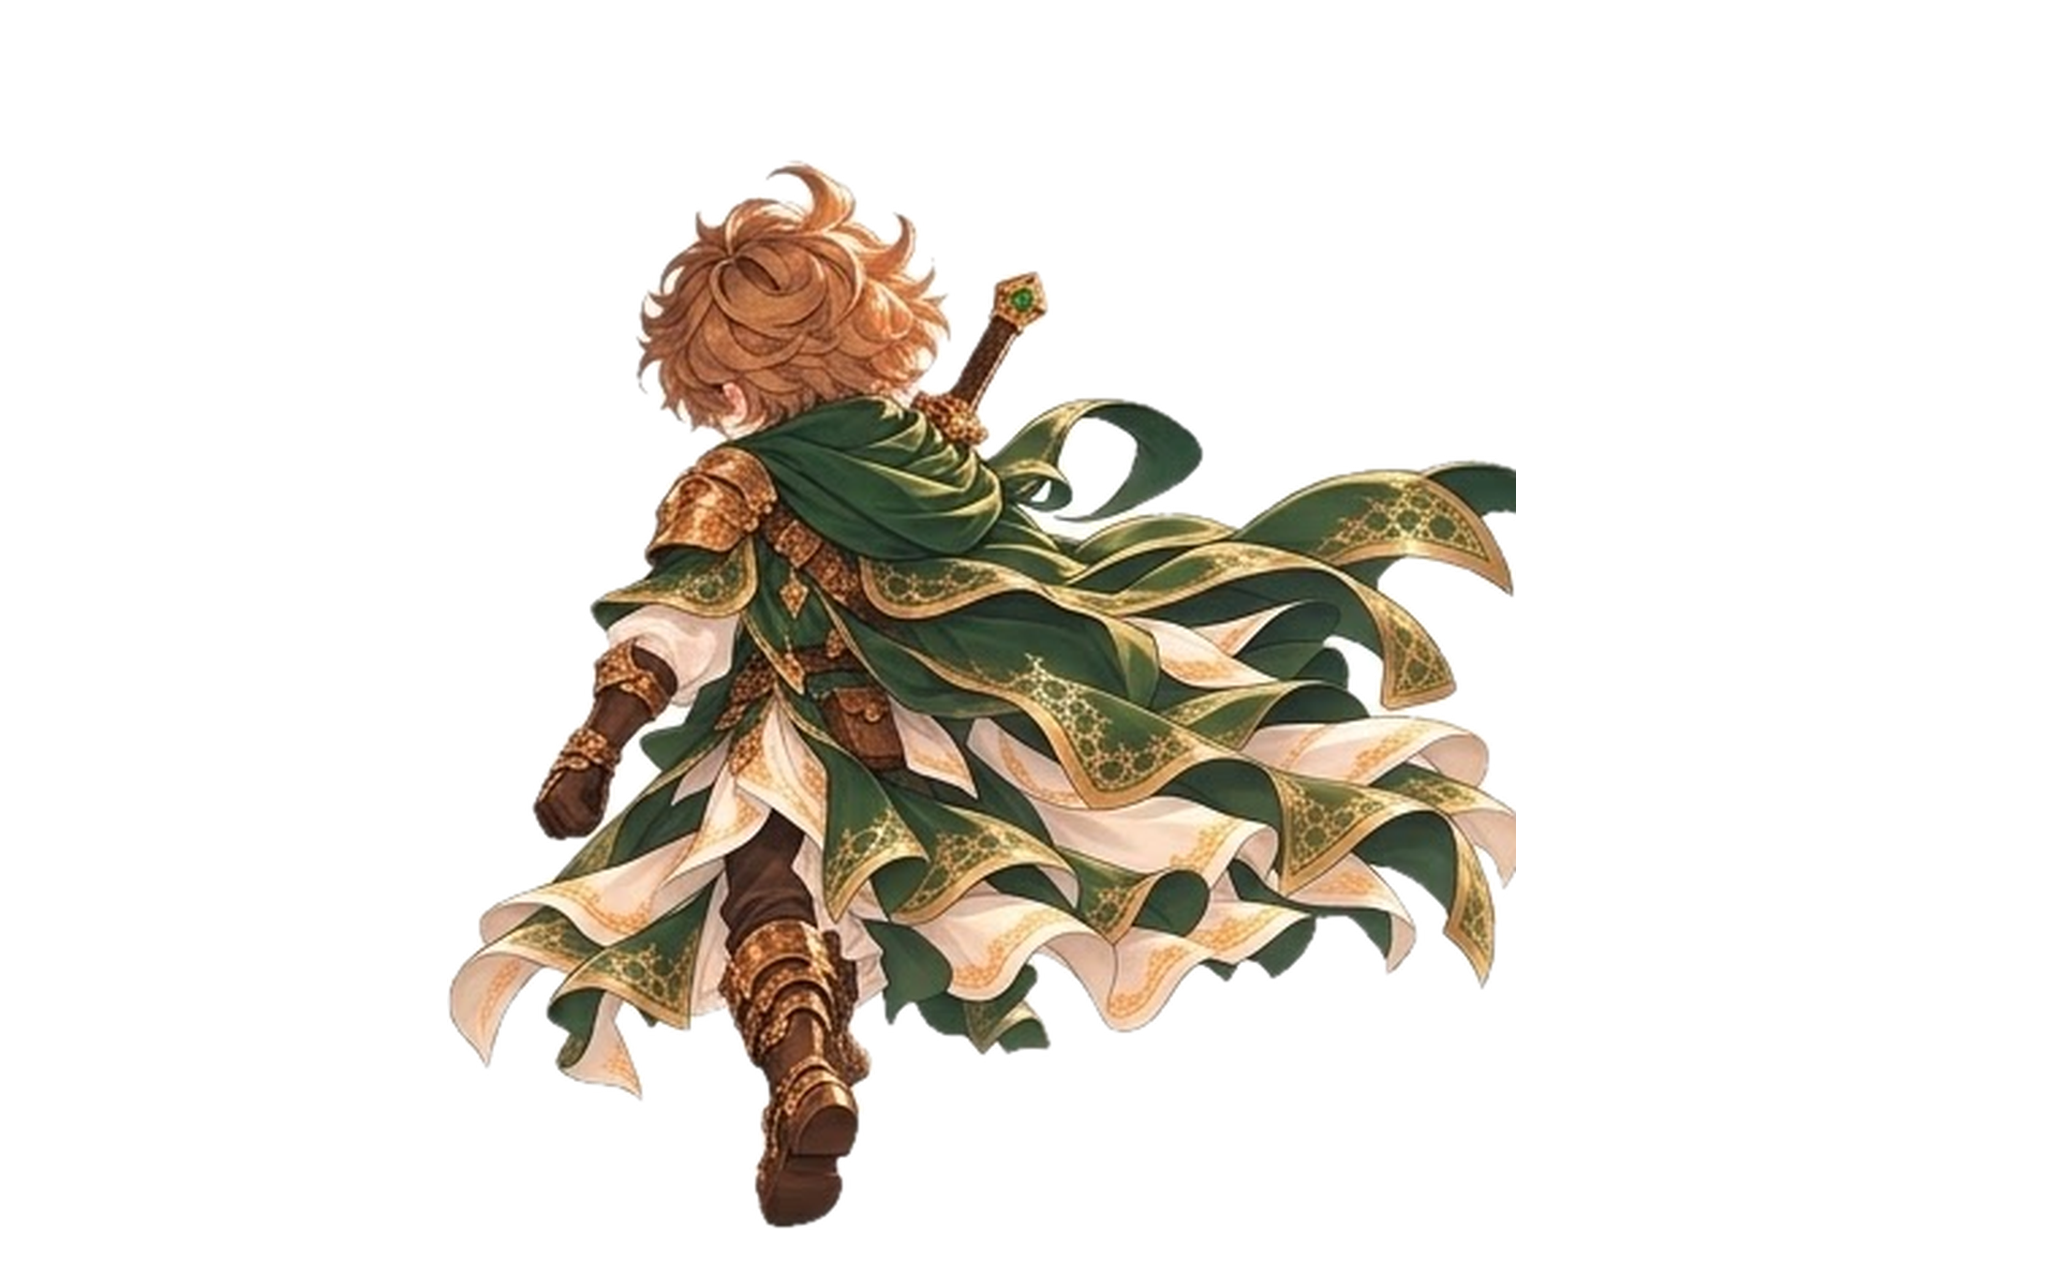
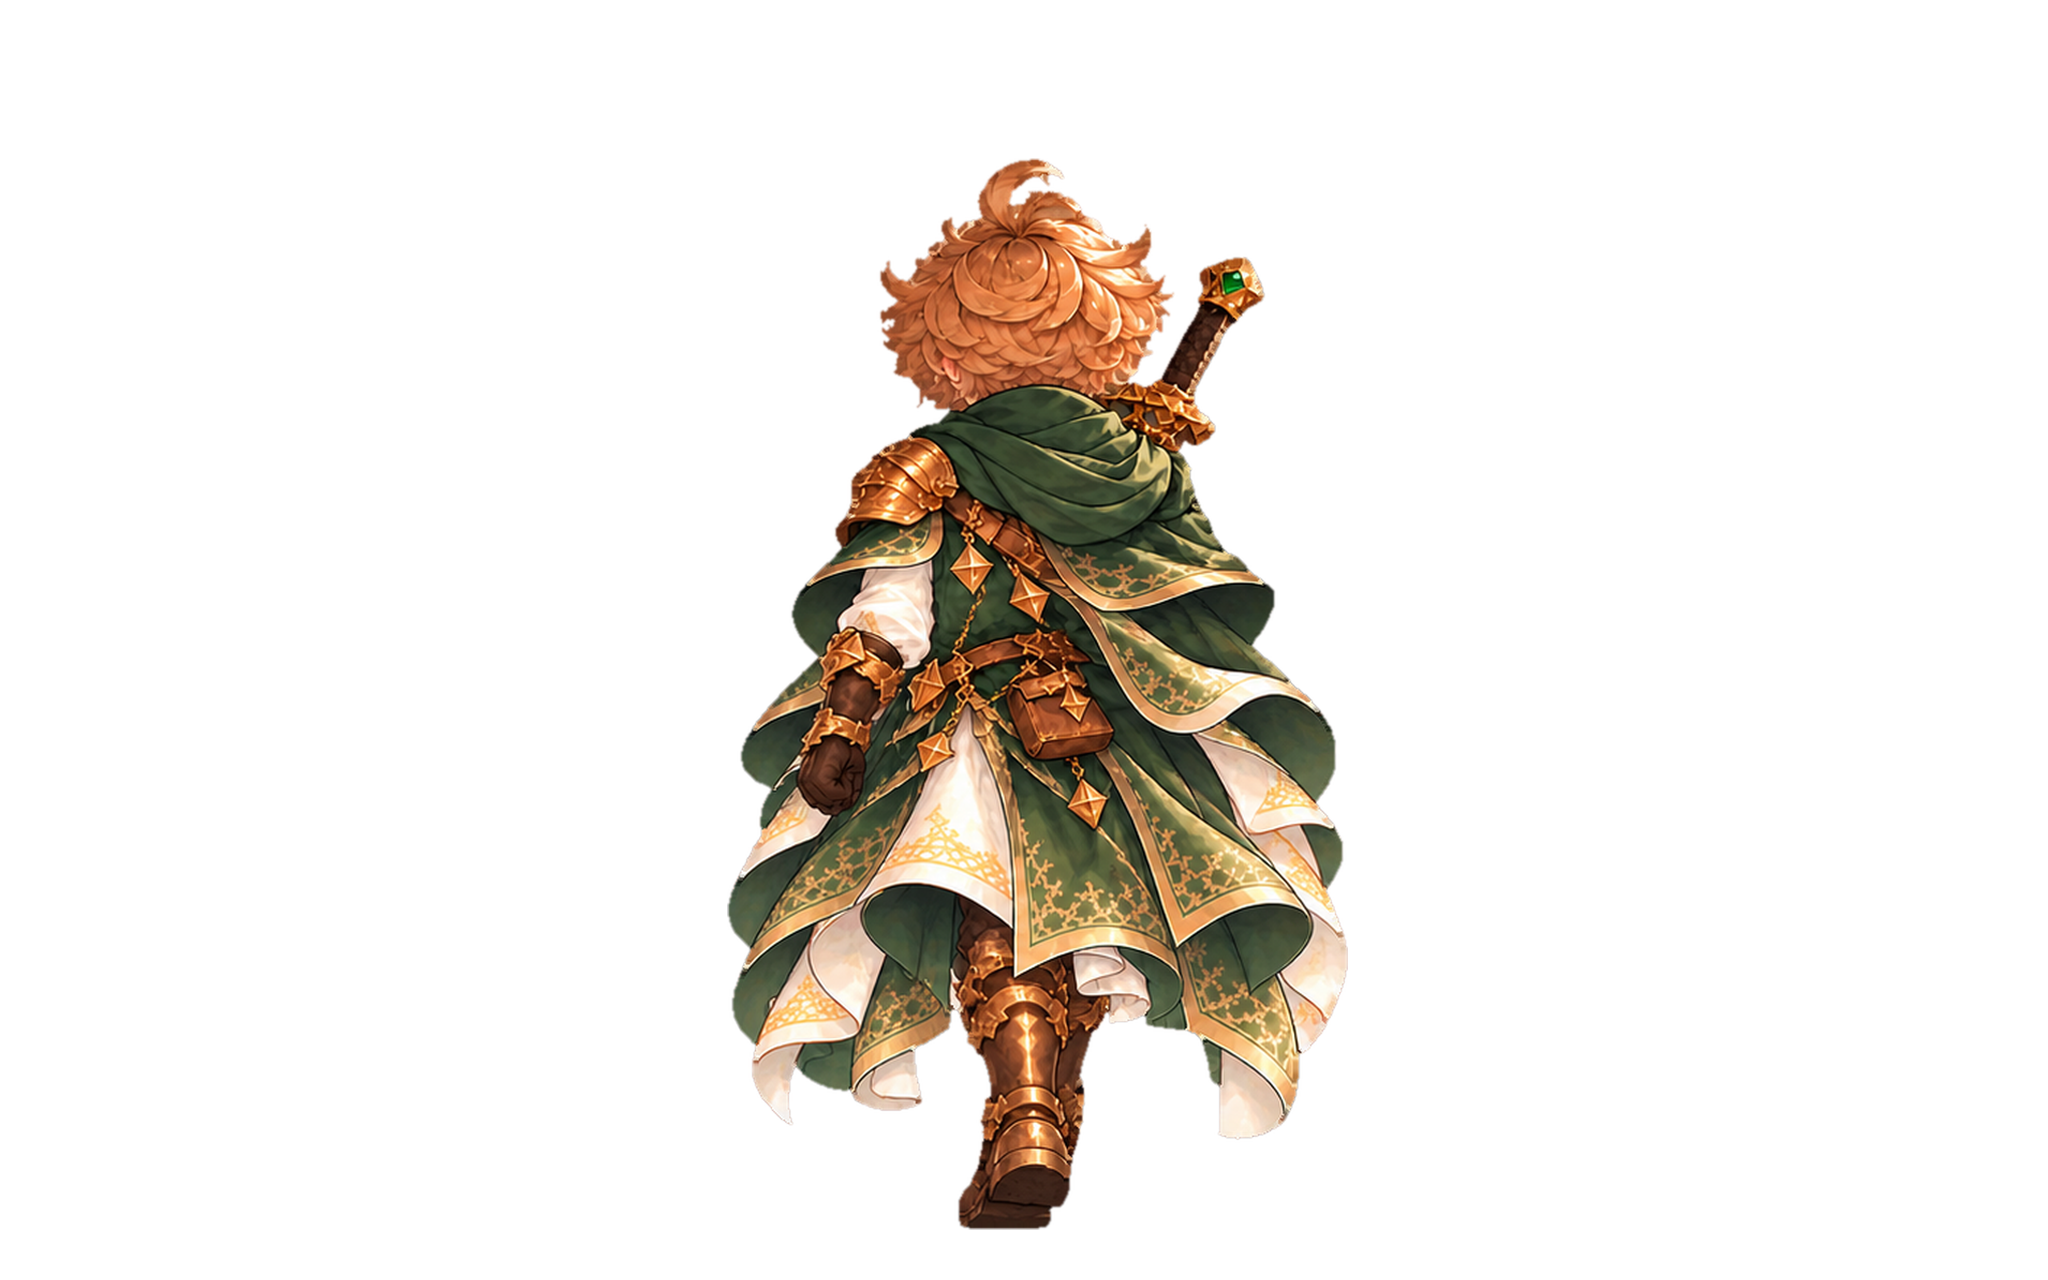
Aidan: calm 4-frame back walk (transparent delivery), defringed front stride; remove white-bg remnants; store run poses
Claude-Session: https://claude.ai/code/session_01KtAepaq115Lcetj5TqkPJk

Changed region(s): [[0.2188, 0.125, 0.75, 0.9688]]

diff --git a/js/field/aidan-field-assets.js b/js/field/aidan-field-assets.js
@@ -20,13 +20,13 @@
   "scale": 0.0625
  },
  "aidan_walk_down_01": {
-  "path": "img/field/characters/aidan/aidan_walk_down_01.png?v=4261aada",
+  "path": "img/field/characters/aidan/aidan_walk_down_01.png?v=ef0c9281",
   "width": 2048,
   "height": 1280,
   "bounds": [
-   603,
+   604,
    158,
-   736,
+   735,
    1072
   ],
   "anchor": [
@@ -244,13 +244,13 @@
   "scale": 0.0625
  },
  "aidan_idle_up": {
-  "path": "img/field/characters/aidan/aidan_idle_up.png?v=c94ba03c",
+  "path": "img/field/characters/aidan/aidan_idle_up.png?v=6480bdb2",
   "width": 2048,
   "height": 1280,
   "bounds": [
-   660,
+   742,
    158,
-   702,
+   604,
    1072
   ],
   "anchor": [
@@ -260,13 +260,13 @@
   "scale": 0.0625
  },
  "aidan_walk_up_01": {
-  "path": "img/field/characters/aidan/aidan_walk_up_01.png?v=7e0c4efd",
+  "path": "img/field/characters/aidan/aidan_walk_up_01.png?v=f0e6bcd8",
   "width": 2048,
   "height": 1280,
   "bounds": [
-   447,
+   727,
    158,
-   1069,
+   621,
    1072
   ],
   "anchor": [
@@ -276,13 +276,13 @@
   "scale": 0.0625
  },
  "aidan_walk_up_02": {
-  "path": "img/field/characters/aidan/aidan_walk_up_02.png?v=bb9083a6",
+  "path": "img/field/characters/aidan/aidan_walk_up_02.png?v=6480bdb2",
   "width": 2048,
   "height": 1280,
   "bounds": [
-   492,
+   742,
    158,
-   1012,
+   604,
    1072
   ],
   "anchor": [
@@ -292,13 +292,13 @@
   "scale": 0.0625
  },
  "aidan_walk_up_03": {
-  "path": "img/field/characters/aidan/aidan_walk_up_03.png?v=c94ba03c",
+  "path": "img/field/characters/aidan/aidan_walk_up_03.png?v=0f9580c4",
   "width": 2048,
   "height": 1280,
   "bounds": [
-   660,
+   727,
    158,
-   702,
+   622,
    1072
   ],
   "anchor": [
@@ -308,45 +308,13 @@
   "scale": 0.0625
  },
  "aidan_walk_up_04": {
-  "path": "img/field/characters/aidan/aidan_walk_up_04.png?v=ae206b39",
+  "path": "img/field/characters/aidan/aidan_walk_up_04.png?v=25e682c0",
   "width": 2048,
   "height": 1280,
   "bounds": [
-   580,
+   744,
    158,
-   845,
-   1072
-  ],
-  "anchor": [
-   1024,
-   1230
-  ],
-  "scale": 0.0625
- },
- "aidan_walk_up_05": {
-  "path": "img/field/characters/aidan/aidan_walk_up_05.png?v=83232452",
-  "width": 2048,
-  "height": 1280,
-  "bounds": [
-   728,
-   158,
-   705,
-   1072
-  ],
-  "anchor": [
-   1024,
-   1230
-  ],
-  "scale": 0.0625
- },
- "aidan_walk_up_06": {
-  "path": "img/field/characters/aidan/aidan_walk_up_06.png?v=bd86f172",
-  "width": 2048,
-  "height": 1280,
-  "bounds": [
-   679,
-   158,
-   689,
+   598,
    1072
   ],
   "anchor": [

diff --git a/index.html b/index.html
@@ -1963,7 +1963,7 @@ const v54SR=startRaiderBattle;startRaiderBattle=function(){v54SR();requestAnimat
 <script src="js/field/lind-npcs.js"></script>
 <script src="js/field/lind-birds.js"></script>
 <link rel="stylesheet" href="css/aidan-field.css">
-<script src="js/field/aidan-field-assets.js?v=20261012fd"></script>
+<script src="js/field/aidan-field-assets.js?v=20261012fe"></script>
 <script src="js/field/aidan-field-actor.js"></script>
 <script src="js/field/lind-terrain-layout.js"></script>
 <script src="js/field/lind-terrain-blend.js"></script>
